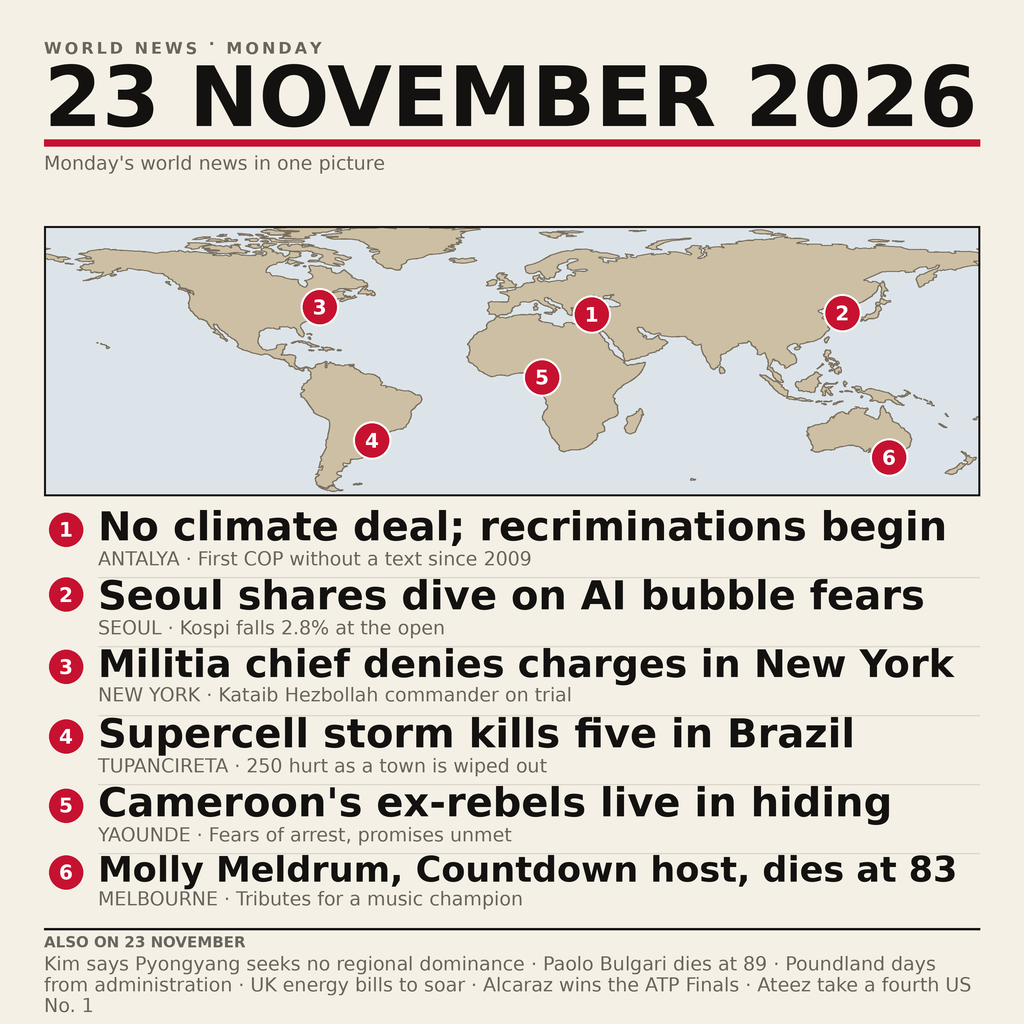
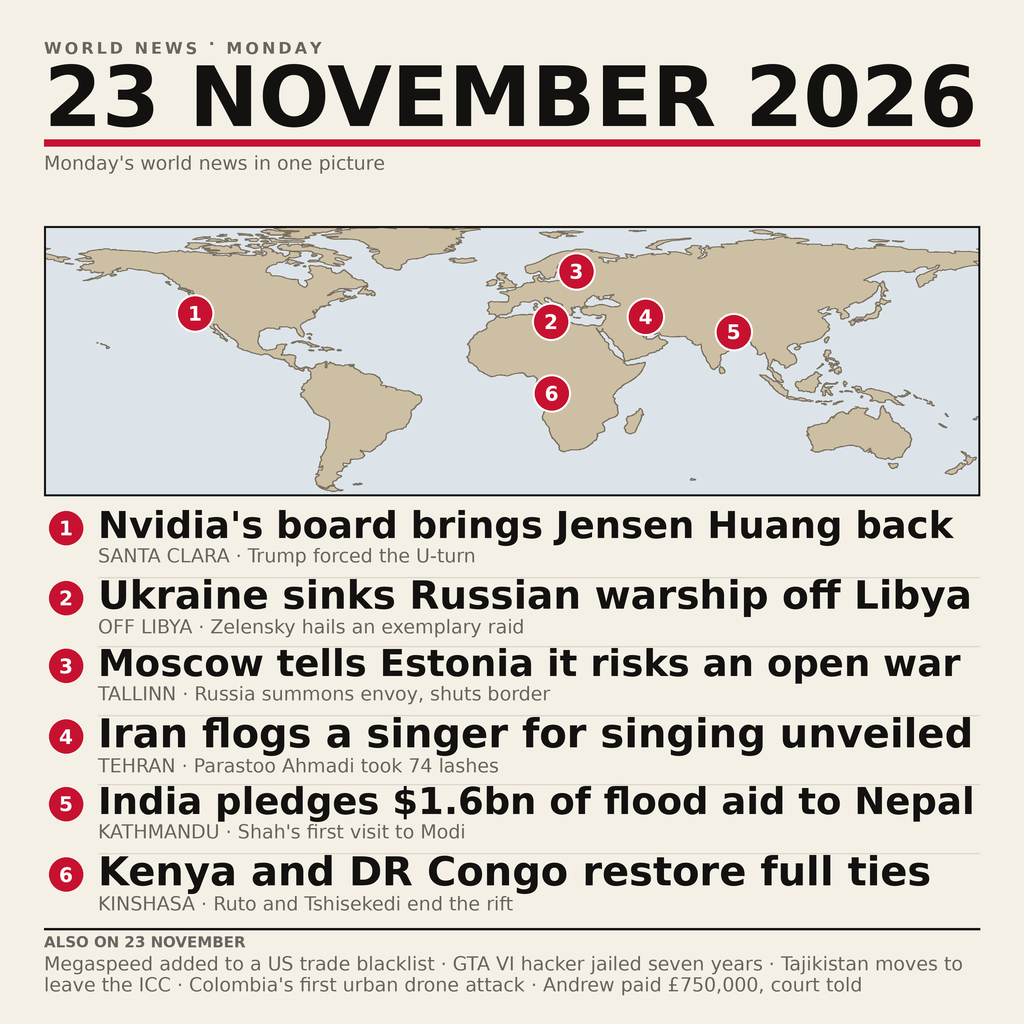
entry: news-image-20261123 — lead on 23 November's own events
The six leads were all first reported on 22 November (COP31 collapse, Kospi
open, Kataib Hezbollah trial, Brazil supercell, Cameroon rebels, Meldrum), so
the page dated itself to the wrong day and lost on the judge's first criterion.
Replace them with stories filed on the 23rd: Huang's reinstatement at Nvidia,
the Ukrainian drone strike on a Russian warship off Libya, Moscow's 'open war'
warning to Estonia, the flogging of singer Parastoo Ahmadi, India's flood aid to
Nepal, and the Kenya-DR Congo rapprochement.

diff --git a/art/render.py b/art/render.py
@@ -20,7 +20,9 @@ and clips Antarctica to the sliver visible along the bottom edge.
 
 Every story below was read out of a feed item whose own pubDate is 23 November
 2026 (or a local-clock 23 November report of an event that day); see the
-repository README for the sourcing rule.
+repository README for the sourcing rule.  Items first filed on the 22nd are kept
+out of the six leads on purpose, because a page that leads on yesterday's news
+would date itself to the wrong day.
 """
 
 import json
@@ -56,28 +58,33 @@ DATE = "23 NOVEMBER 2026"
 DAY = "MONDAY"
 
 # (number, longitude, latitude, headline, kicker)
-# Every item is dated 23 November 2026 by its own feed pubDate (UTC or the
-# reporting desk's local clock, which the rules allow).  The COP31 collapse
-# itself happened on the 22nd, so the card carries the 23rd's development --
-# the recriminations between ministers -- and the kicker supplies the context.
+# Every item happened, or was first reported, on 23 November 2026 by its own
+# feed pubDate -- the rule allows either.  Work reported on the 22nd is kept
+# out even where it was still running on the 23rd: the COP31 collapse, the
+# Democrats' House majority and the Indonesian fire's first deaths were all
+# first reported on the 22nd, so they sit in ALSO at most.
+#
+# The six are chosen for spread as much as for weight: North America, Africa,
+# Europe, the Middle East, South Asia and a second African story a continent
+# away from the first, so the map shows a world and not one hemisphere.
 STORIES = [
-    ("1", 30.7, 36.9, "No climate deal; recriminations begin",
-     "ANTALYA \u00b7 First COP without a text since 2009"),
-    ("2", 127.0, 37.5, "Seoul shares dive on AI bubble fears",
-     "SEOUL \u00b7 Kospi falls 2.8% at the open"),
-    ("3", -74.0, 40.7, "Militia chief denies charges in New York",
-     "NEW YORK \u00b7 Kataib Hezbollah commander on trial"),
-    ("4", -53.8, -29.0, "Supercell storm kills five in Brazil",
-     "TUPANCIRETA \u00b7 250 hurt as a town is wiped out"),
-    ("5", 11.5, 3.9, "Cameroon's ex-rebels live in hiding",
-     "YAOUNDE \u00b7 Fears of arrest, promises unmet"),
-    ("6", 145.0, -37.8, "Molly Meldrum, Countdown host, dies at 83",
-     "MELBOURNE \u00b7 Tributes for a music champion"),
+    ("1", -121.95, 37.35, "Nvidia's board brings Jensen Huang back",
+     "SANTA CLARA \u00b7 Trump forced the U-turn"),
+    ("2", 15.0, 33.0, "Ukraine sinks Russian warship off Libya",
+     "OFF LIBYA \u00b7 Zelensky hails an exemplary raid"),
+    ("3", 24.75, 59.4, "Moscow tells Estonia it risks an open war",
+     "TALLINN \u00b7 Russia summons envoy, shuts border"),
+    ("4", 51.4, 35.7, "Iran flogs a singer for singing unveiled",
+     "TEHRAN \u00b7 Parastoo Ahmadi took 74 lashes"),
+    ("5", 85.3, 27.7, "India pledges $1.6bn of flood aid to Nepal",
+     "KATHMANDU \u00b7 Shah's first visit to Modi"),
+    ("6", 15.3, -4.3, "Kenya and DR Congo restore full ties",
+     "KINSHASA \u00b7 Ruto and Tshisekedi end the rift"),
 ]
 
-ALSO = ("Kim says Pyongyang seeks no regional dominance \u00b7 Paolo Bulgari "
-        "dies at 89 \u00b7 Poundland days from administration \u00b7 UK energy bills "
-        "to soar \u00b7 Alcaraz wins the ATP Finals \u00b7 Ateez take a fourth US No. 1")
+ALSO = ("Megaspeed added to a US trade blacklist \u00b7 GTA VI hacker jailed seven "
+        "years \u00b7 Tajikistan moves to leave the ICC \u00b7 Colombia's first urban "
+        "drone attack \u00b7 Andrew paid \u00a3750,000, court told")
 
 
 def font(size, bold=False):

diff --git a/README.md b/README.md
@@ -11,22 +11,26 @@ map with one numbered pin per story, six leads and a strip of further headlines.
 
 | # | Story | Where |
 |---|---|---|
-| 1 | COP31 closes without a final text; ministers trade blame | Antalya, Turkey |
-| 2 | Seoul shares open 2.8% lower as AI-bubble fears spread | Seoul, South Korea |
-| 3 | Kataib Hezbollah commander denies terrorism charges in court | New York, USA |
-| 4 | Supercell storm wipes out Tupancireta; five dead, 250 hurt | Rio Grande do Sul, Brazil |
-| 5 | Cameroon's former rebels say reintegration promises went unmet | Yaounde, Cameroon |
-| 6 | Molly Meldrum, host of *Countdown*, dies aged 83 | Melbourne, Australia |
+| 1 | Nvidia's board reinstates Jensen Huang as chief executive after Trump intervenes | Santa Clara, USA |
+| 2 | Ukrainian naval drones sink a Russian warship off the Libyan coast, Zelensky says | Off Libya |
+| 3 | Moscow accuses Estonia of pushing towards "open war" and summons its envoy | Tallinn, Estonia |
+| 4 | Iran flogs singer Parastoo Ahmadi and four of her team for an unveiled performance | Tehran, Iran |
+| 5 | India pledges $1.6bn of flood relief to Nepal as PM Balendra Shah visits Modi | Kathmandu, Nepal |
+| 6 | Kenya and DR Congo agree to restore full diplomatic relations after a four-year rift | Kinshasa, DR Congo |
 
-Also on the page: Kim Jong Un says Pyongyang seeks no regional dominance ·
-Paolo Bulgari dies at 89 · Poundland days from administration · UK energy bills
-to soar · Alcaraz wins the ATP Finals · Ateez take a fourth US No. 1.
+Also on the page: Megaspeed, the chip firm at the centre of the Nvidia scandal,
+is added to a US trade blacklist · the hacker behind the GTA VI leaks is jailed
+for seven years · Tajikistan moves to leave the ICC · an illegal armed group
+carries out Colombia's first urban drone attack · a court is told former prince
+Andrew was paid £750,000 to help a Turkish heiress with a passport.
 
 Every line above comes from a feed item whose own `pubDate` is 23 November 2026
 in UTC or in the reporting desk's local clock, which the bounty's rules allow.
-The COP31 collapse itself fell on the 22nd, so that card carries the 23rd's
-development — the recriminations between ministers — rather than restating the
-collapse as if it happened that morning.
+Stories first reported on the 22nd are deliberately kept out of the six, even
+where they were still running on the 23rd: the COP31 collapse in Antalya, the
+Democrats' House majority and the first reports of the Indonesian fire were all
+filed on the 22nd, so putting them in the leads would date the page to the wrong
+day. They appear, if at all, only in the strip of further headlines.
 
 ## Run it
 
